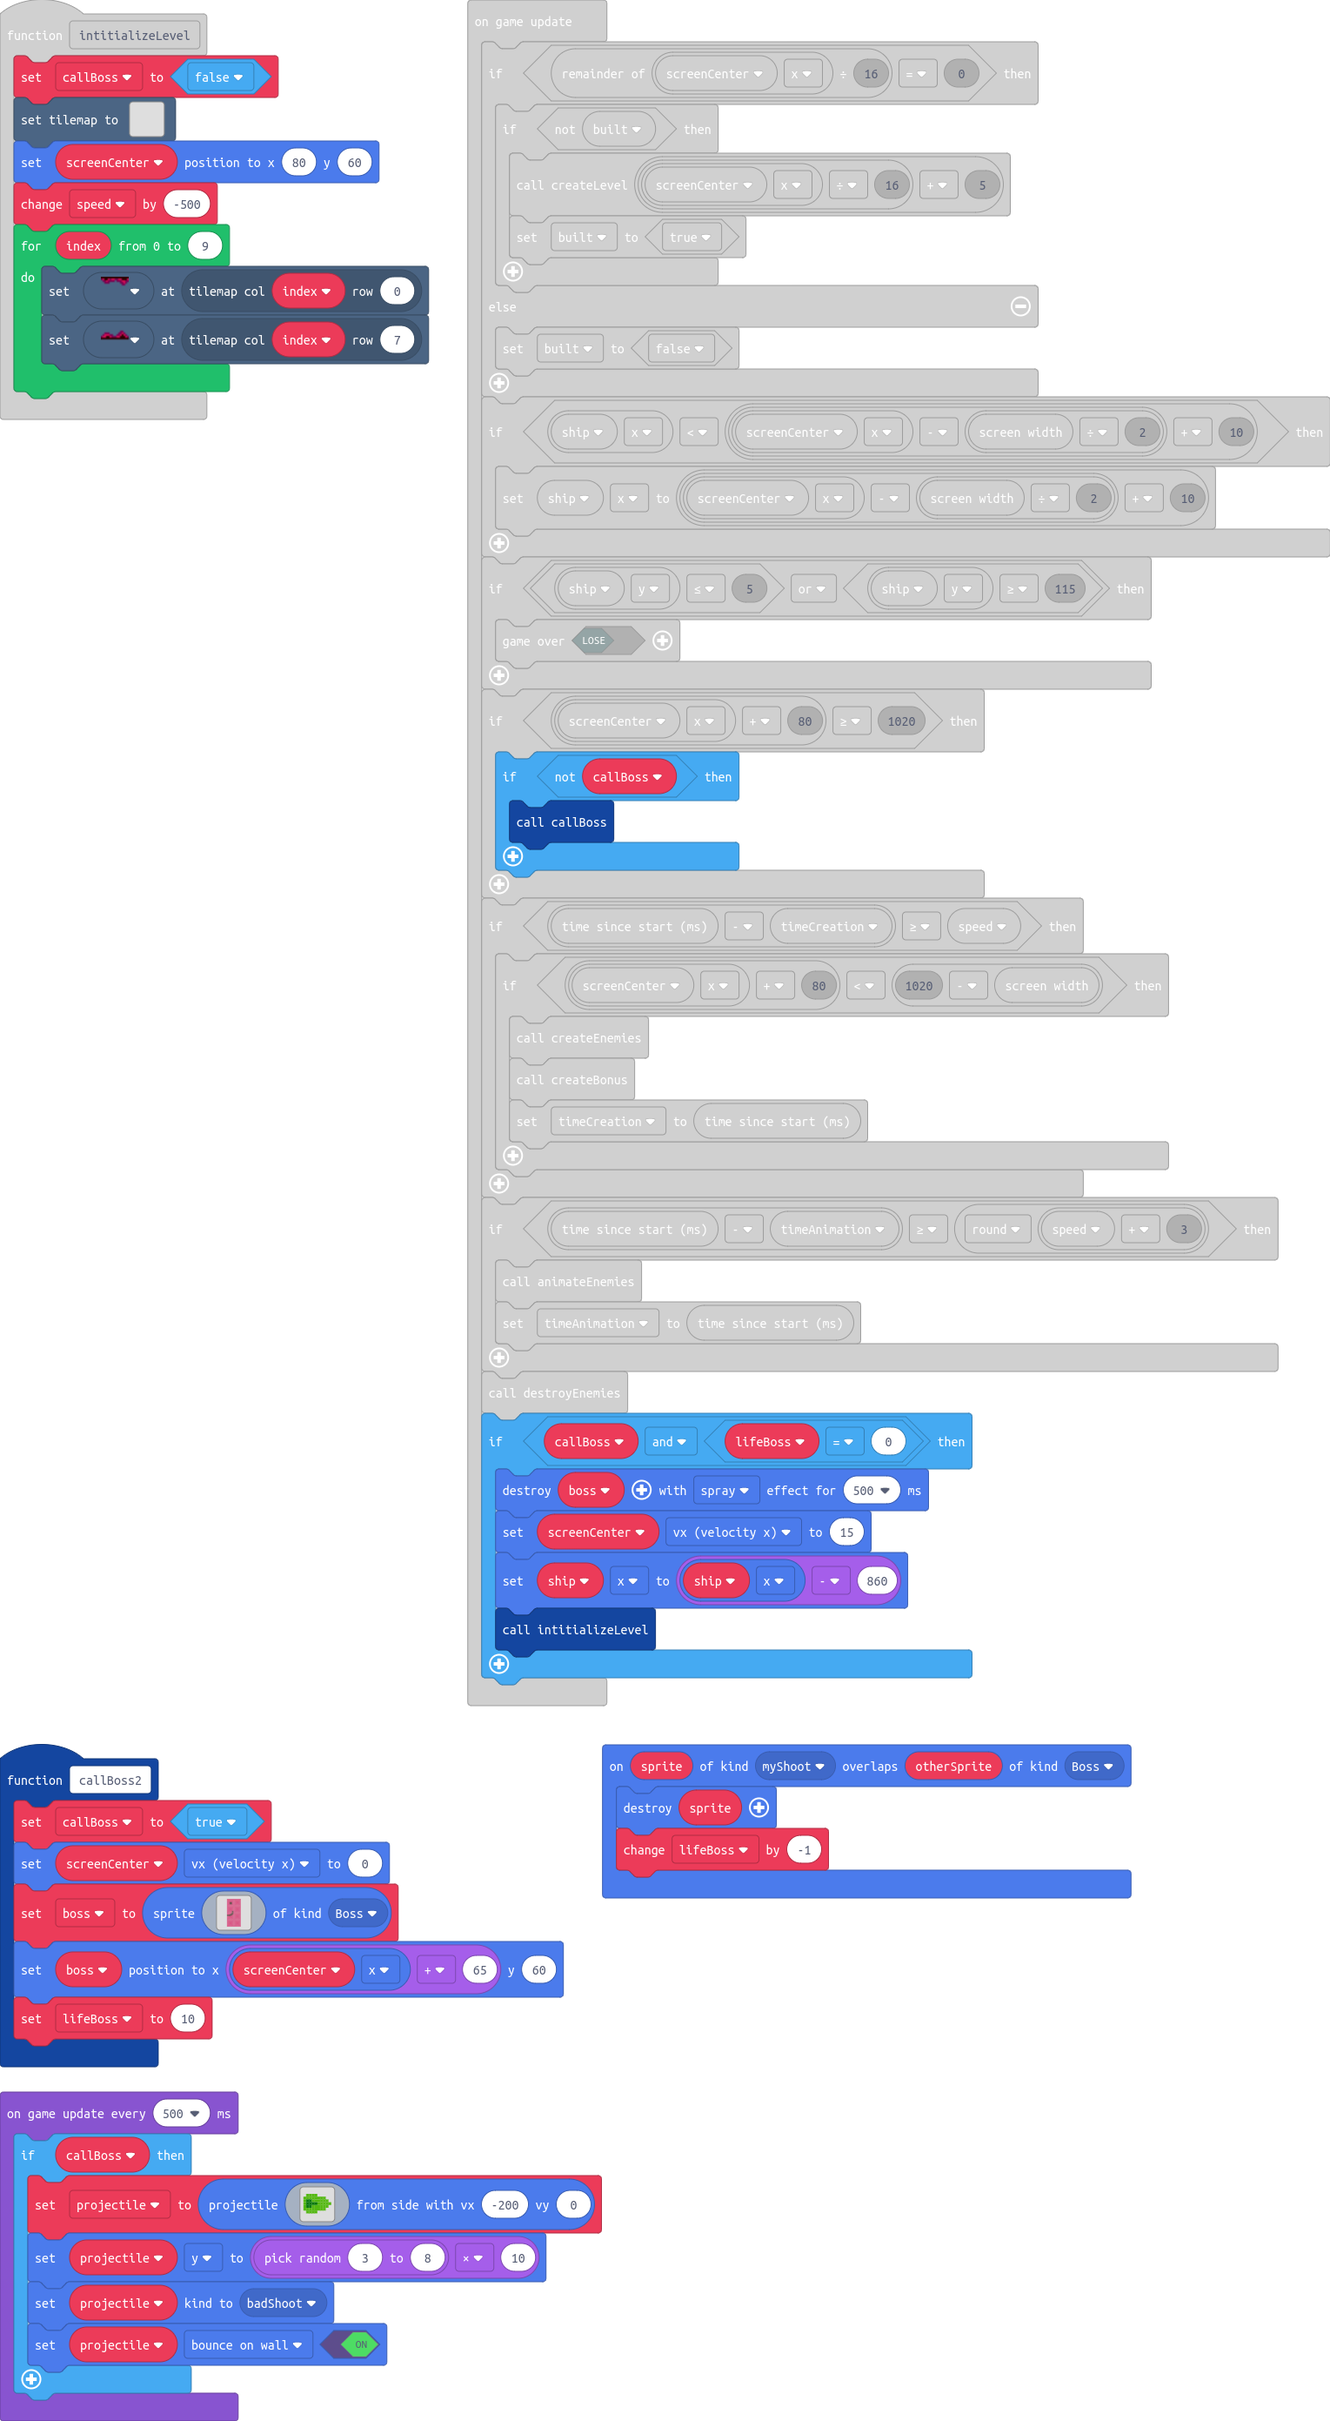
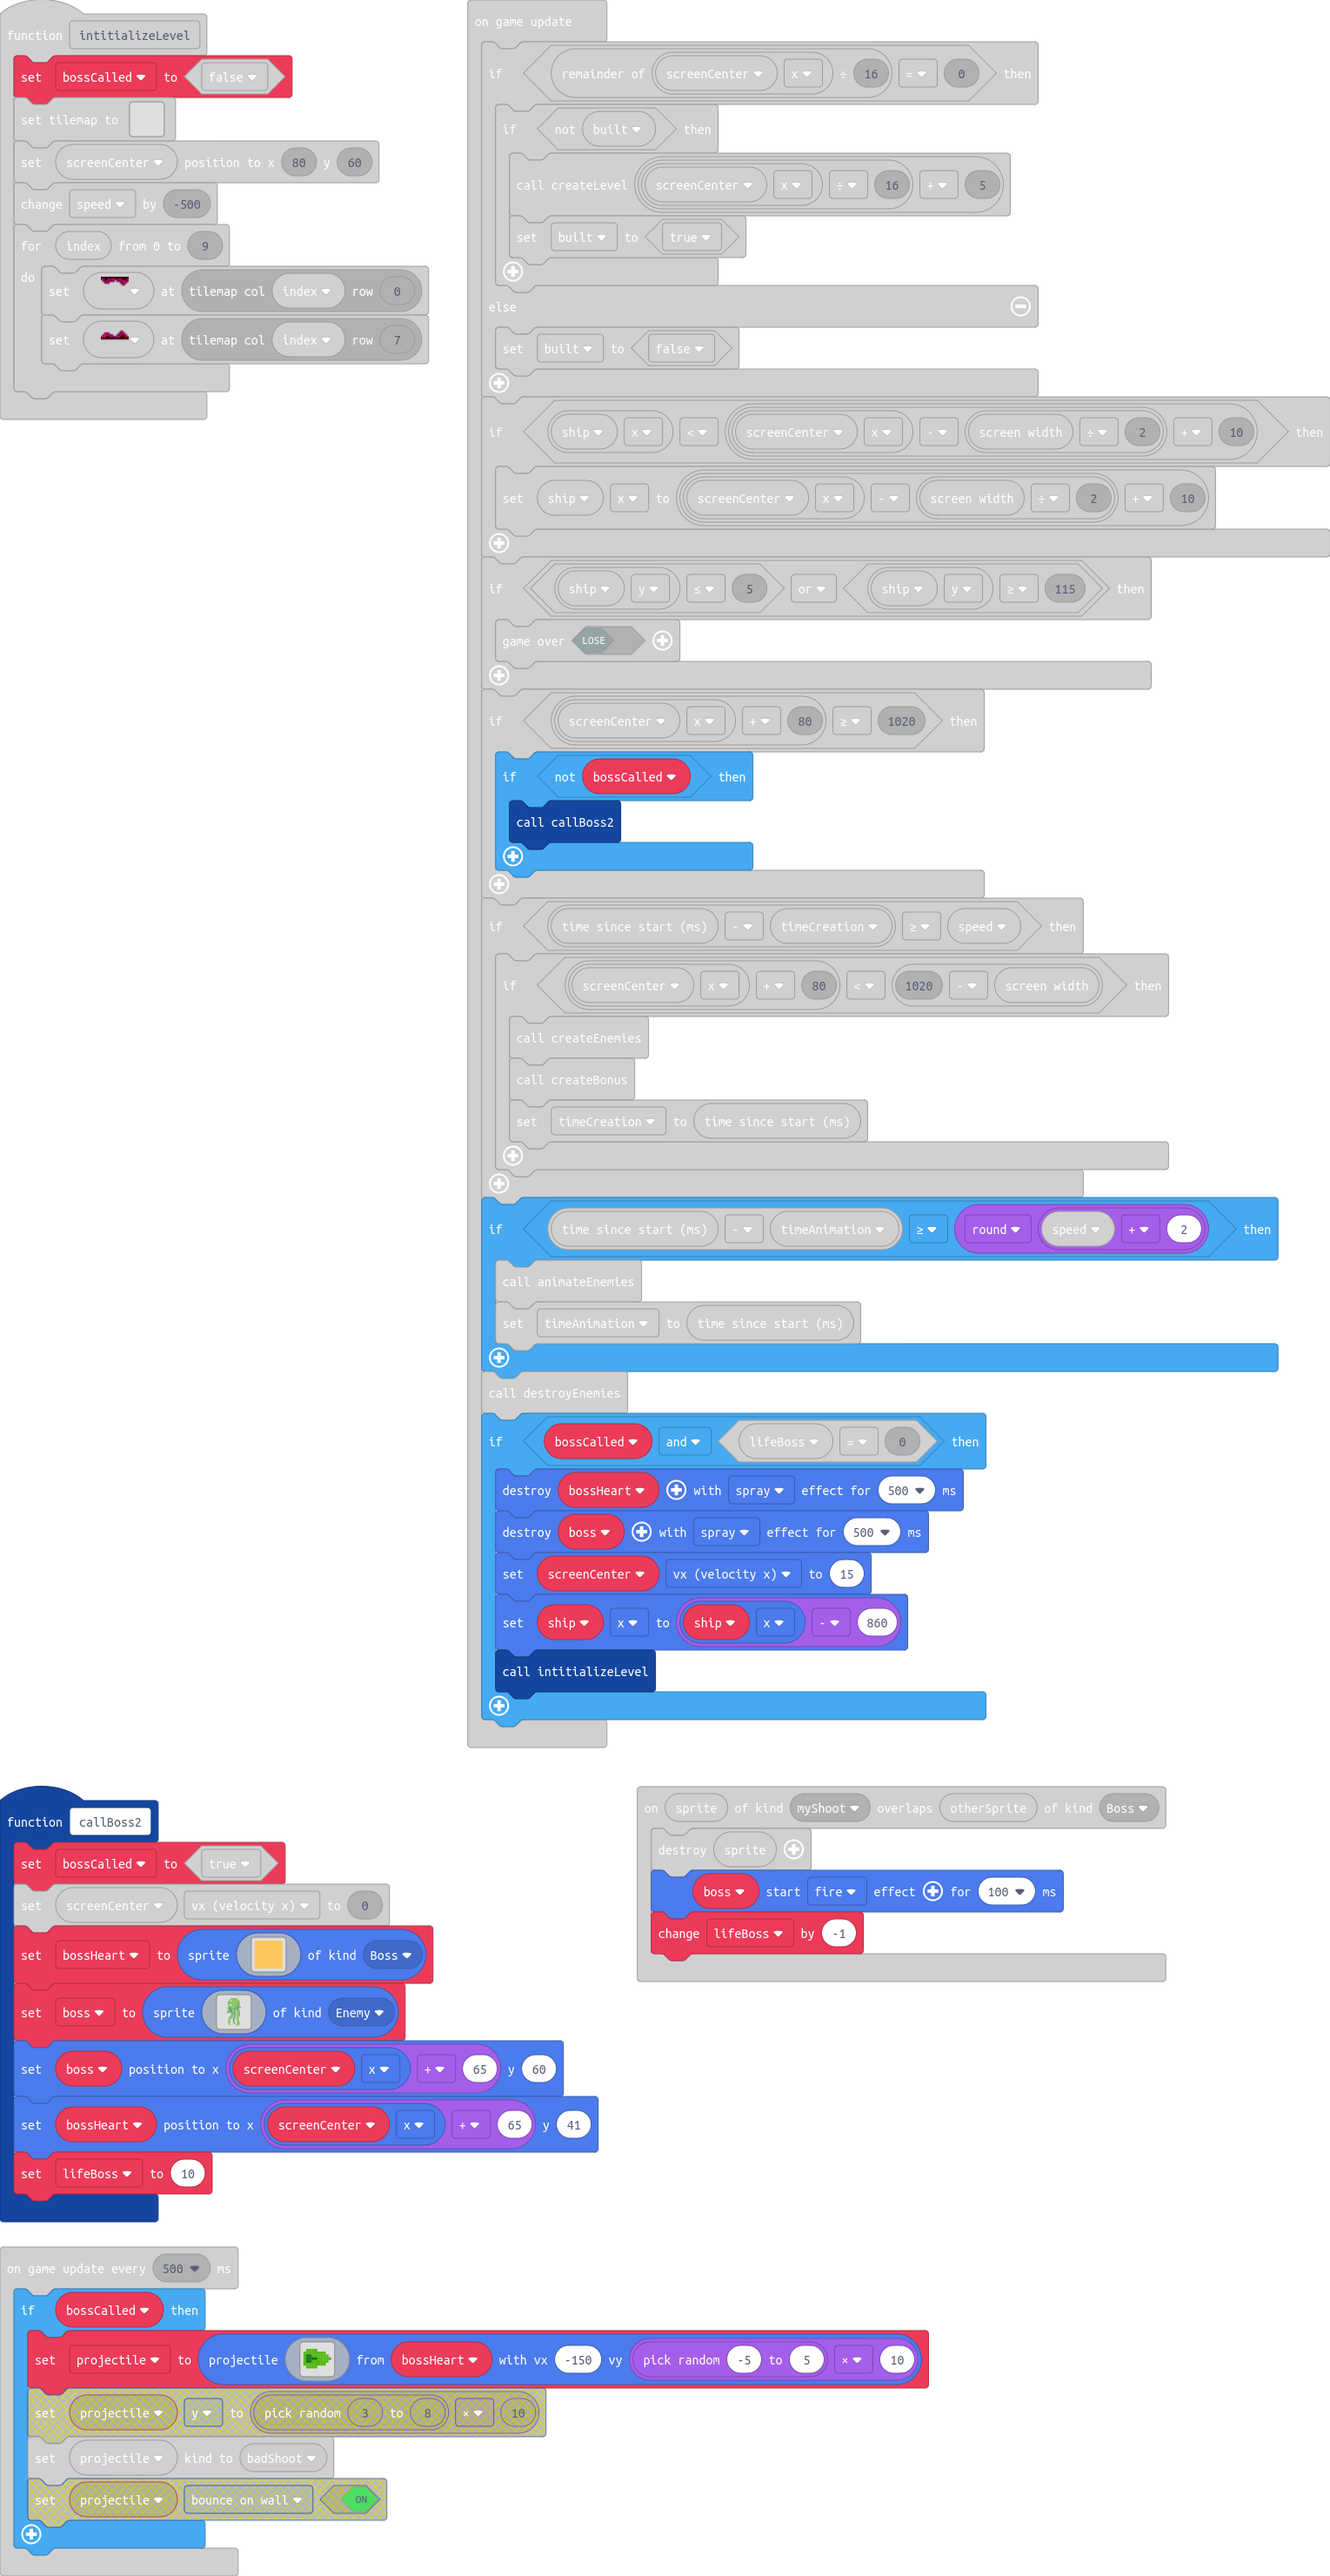
Update main.blocks, main.ts

diff --git a/main.ts b/main.ts
@@ -120,74 +120,6 @@ sprites.onOverlap(SpriteKind.Player, SpriteKind.ShootQuick, function (sprite, ot
     pause(5000)
     coolDown = 500
 })
-function callBoss () {
-    callBoss2 = true
-    screenCenter.vx = 0
-    boss = sprites.create(img`
-3 3 3 3 3 3 3 3 3 3 3 3 3 3 3 3 3 3 3 3 3 3 3 3 3 3 3 3 3 3 
-3 3 3 3 3 3 3 3 3 3 3 3 3 3 3 3 3 3 3 3 3 3 3 3 3 3 3 3 3 3 
-3 3 3 3 3 3 3 3 3 3 3 3 3 3 3 3 3 3 3 3 3 3 3 3 3 3 3 3 3 3 
-3 3 3 3 3 3 3 3 3 3 3 3 3 3 3 3 3 3 3 3 3 3 3 3 3 3 3 3 3 3 
-3 3 3 3 3 3 3 3 3 3 3 3 3 3 3 3 3 3 3 3 3 3 3 3 3 3 3 3 3 3 
-3 3 3 3 3 3 3 3 3 3 3 3 3 3 3 3 3 3 3 3 3 3 3 3 3 3 3 3 3 3 
-3 3 3 3 3 3 3 3 3 3 3 3 3 3 3 3 3 3 3 3 3 3 3 3 3 3 3 3 3 3 
-3 3 3 3 3 3 1 1 1 1 1 3 3 3 3 3 3 3 3 3 3 3 3 3 3 3 3 3 3 3 
-3 3 3 3 3 3 1 1 1 1 1 3 3 3 3 3 3 3 3 3 3 3 3 3 3 3 3 3 3 3 
-3 3 3 3 3 3 1 1 1 1 1 3 3 3 3 3 3 3 3 3 3 3 3 3 3 3 3 3 3 3 
-3 3 3 3 3 3 1 1 1 1 1 3 3 3 3 3 3 3 3 3 3 3 3 3 3 3 3 3 3 3 
-3 3 3 3 3 3 1 1 1 1 1 3 3 3 3 3 3 3 3 3 3 3 3 3 3 3 3 3 3 3 
-3 3 3 3 3 3 3 3 3 3 3 3 3 3 3 3 3 3 3 3 3 3 3 3 3 3 3 3 3 3 
-3 3 3 3 3 3 3 3 3 3 3 3 3 3 3 3 3 3 3 3 3 3 3 3 3 3 3 3 3 3 
-3 3 3 3 3 3 3 3 3 3 3 3 3 3 3 3 3 3 3 3 3 3 3 3 3 3 3 3 3 3 
-3 3 3 3 3 3 3 3 3 3 3 3 3 3 3 3 3 3 3 3 3 3 3 3 3 3 3 3 3 3 
-3 3 3 3 3 3 3 3 3 3 3 3 3 3 3 3 3 3 3 3 3 3 3 3 3 3 3 3 3 3 
-3 3 3 3 3 3 3 3 3 3 3 3 3 3 3 3 3 3 3 3 3 3 3 3 3 3 3 3 3 3 
-3 3 3 3 3 3 3 3 3 3 3 3 3 3 3 3 3 3 3 3 3 3 3 3 3 3 3 3 3 3 
-3 3 3 3 3 3 3 3 3 3 3 3 3 3 3 3 3 3 3 3 3 3 3 3 3 3 3 3 3 3 
-3 3 3 3 3 3 3 3 3 3 3 3 3 3 3 3 3 3 3 3 3 3 3 3 3 3 3 3 3 3 
-3 3 3 3 3 3 3 3 3 3 3 3 3 3 3 3 3 3 3 3 3 3 3 3 3 3 3 3 3 3 
-3 3 3 3 3 3 3 3 3 3 3 3 3 3 3 3 3 3 3 3 3 3 3 3 3 3 3 3 3 3 
-3 3 3 3 3 3 3 3 3 3 3 3 3 3 3 3 3 3 3 3 3 3 3 3 3 3 3 3 3 3 
-3 3 3 3 3 3 3 3 3 3 3 3 3 3 3 3 3 3 3 3 3 3 3 3 3 3 3 3 3 3 
-3 3 3 3 3 3 3 3 3 3 3 3 3 3 3 3 3 3 3 3 3 3 3 3 3 3 3 3 3 3 
-3 3 3 3 3 3 3 3 3 3 3 1 1 1 3 3 3 3 3 3 3 3 3 3 3 3 3 3 3 3 
-3 3 3 3 3 3 3 3 3 3 3 1 1 1 3 3 3 3 3 3 3 3 3 3 3 3 3 3 3 3 
-3 3 3 3 3 3 3 3 3 3 3 1 1 1 3 3 3 3 3 3 3 3 3 3 3 3 3 3 3 3 
-3 3 3 3 3 3 3 3 3 3 3 1 1 1 3 3 3 3 3 3 3 3 3 3 3 3 3 3 3 3 
-3 3 3 3 3 3 3 3 3 3 1 1 1 1 3 3 3 3 3 3 3 3 3 3 3 3 3 3 3 3 
-3 3 3 3 3 3 3 3 3 1 1 1 1 1 3 3 3 3 3 3 3 3 3 3 3 3 3 3 3 3 
-3 3 3 3 3 3 3 3 3 1 1 1 1 1 3 3 3 3 3 3 3 3 3 3 3 3 3 3 3 3 
-3 3 3 3 3 3 1 1 1 1 1 1 1 3 3 3 3 3 3 3 3 3 3 3 3 3 3 3 3 3 
-1 1 1 1 1 1 1 1 1 1 1 1 3 3 3 3 3 3 3 3 3 3 3 3 3 3 3 3 3 3 
-1 1 1 1 1 1 1 1 1 1 1 3 3 3 3 3 3 3 3 3 3 3 3 3 3 3 3 3 3 3 
-1 1 1 1 1 1 1 1 3 3 3 3 3 3 3 3 3 3 3 3 3 3 3 3 3 3 3 3 3 3 
-3 3 3 3 3 3 3 3 3 3 3 3 3 3 3 3 3 3 3 3 3 3 3 3 3 3 3 3 3 3 
-3 3 3 3 3 3 3 3 3 3 3 3 3 3 3 3 3 3 3 3 3 3 3 3 3 3 3 3 3 3 
-3 3 3 3 3 3 3 3 3 3 3 3 3 3 3 3 3 3 3 3 3 3 3 3 3 3 3 3 3 3 
-3 3 3 3 3 3 3 3 3 3 3 3 3 3 3 3 3 3 3 3 3 3 3 3 3 3 3 3 3 3 
-3 3 3 3 3 3 3 3 3 3 3 3 3 3 3 3 3 3 3 3 3 3 3 3 3 3 3 3 3 3 
-3 3 3 3 3 3 3 3 3 3 3 3 3 3 3 3 3 3 3 3 3 3 3 3 3 3 3 3 3 3 
-3 3 3 3 3 3 3 3 3 3 3 3 3 3 3 3 3 3 3 3 3 3 3 3 3 3 3 3 3 3 
-3 3 3 3 3 3 3 3 3 3 3 3 3 3 3 3 3 3 3 3 3 3 3 3 3 3 3 3 3 3 
-3 3 3 3 3 3 3 3 3 3 3 3 3 3 3 3 3 3 3 3 3 3 3 3 3 3 3 3 3 3 
-3 3 3 3 3 3 3 3 3 3 3 3 3 3 3 3 3 3 3 3 3 3 3 3 3 3 3 3 3 3 
-3 3 3 3 3 3 3 3 3 3 3 3 3 3 3 3 3 3 3 3 3 3 3 3 3 3 3 3 3 3 
-3 3 3 3 3 3 3 3 3 3 3 3 3 3 3 3 3 3 3 3 3 3 3 3 3 3 3 3 3 3 
-3 3 3 3 3 3 3 3 3 3 3 3 3 3 3 3 3 3 3 3 3 3 3 3 3 3 3 3 3 3 
-3 3 3 3 3 3 3 3 3 3 3 3 3 3 3 3 3 3 3 3 3 3 3 3 3 3 3 3 3 3 
-3 3 3 3 3 3 3 3 3 3 3 3 3 3 3 3 3 3 3 3 3 3 3 3 3 3 3 3 3 3 
-3 3 3 3 3 3 3 3 3 3 3 3 3 3 3 3 3 3 3 3 3 3 3 3 3 3 3 3 3 3 
-3 3 3 3 3 3 3 3 3 3 3 3 3 3 3 3 3 3 3 3 3 3 3 3 3 3 3 3 3 3 
-3 3 3 3 3 3 3 3 3 3 3 3 3 3 3 3 3 3 3 3 3 3 3 3 3 3 3 3 3 3 
-3 3 3 3 3 3 3 3 3 3 3 3 3 3 3 3 3 3 3 3 3 3 3 3 3 3 3 3 3 3 
-3 3 3 3 3 3 3 3 3 3 3 3 3 3 3 3 3 3 3 3 3 3 3 3 3 3 3 3 3 3 
-3 3 3 3 3 3 3 3 3 3 3 3 3 3 3 3 3 3 3 3 3 3 3 3 3 3 3 3 3 3 
-3 3 3 3 3 3 3 3 3 3 3 3 3 3 3 3 3 3 3 3 3 3 3 3 3 3 3 3 3 3 
-3 3 3 3 3 3 3 3 3 3 3 3 3 3 3 3 3 3 3 3 3 3 3 3 3 3 3 3 3 3 
-`, SpriteKind.Boss)
-    boss.setPosition(screenCenter.x + 65, 60)
-    lifeBoss = 10
-}
 function createLevel (col: number) {
     tiles.setTileAt(tiles.getTileLocation(col, 0), myTiles.tile4)
     tiles.setTileAt(tiles.getTileLocation(col, 7), myTiles.tile5)
@@ -279,6 +211,93 @@ function animateEnemies () {
         }
     }
 }
+function callBoss () {
+    bossCalled = true
+    screenCenter.vx = 0
+    bossHeart = sprites.create(img`
+5 5 5 5 5 5 5 5 5 5 5 5 5 5 5 5 
+5 5 5 5 5 5 5 5 5 5 5 5 5 5 5 5 
+5 5 5 5 5 5 5 5 5 5 5 5 5 5 5 5 
+5 5 5 5 5 5 5 5 5 5 5 5 5 5 5 5 
+5 5 5 5 5 5 5 5 5 5 5 5 5 5 5 5 
+5 5 5 5 5 5 5 5 5 5 5 5 5 5 5 5 
+5 5 5 5 5 5 5 5 5 5 5 5 5 5 5 5 
+5 5 5 5 5 5 5 5 5 5 5 5 5 5 5 5 
+5 5 5 5 5 5 5 5 5 5 5 5 5 5 5 5 
+5 5 5 5 5 5 5 5 5 5 5 5 5 5 5 5 
+5 5 5 5 5 5 5 5 5 5 5 5 5 5 5 5 
+5 5 5 5 5 5 5 5 5 5 5 5 5 5 5 5 
+5 5 5 5 5 5 5 5 5 5 5 5 5 5 5 5 
+5 5 5 5 5 5 5 5 5 5 5 5 5 5 5 5 
+5 5 5 5 5 5 5 5 5 5 5 5 5 5 5 5 
+5 5 5 5 5 5 5 5 5 5 5 5 5 5 5 5 
+`, SpriteKind.Boss)
+    boss = sprites.create(img`
+. . . . . . . . . . 6 6 6 6 6 6 6 6 6 6 6 . . . . . . . . . 
+. . . . . . . . 6 6 7 7 7 7 7 7 7 7 7 7 7 6 . . . . . . . . 
+. . . . . . . 6 7 7 7 7 7 7 7 7 7 7 7 7 7 7 6 . . . . . . . 
+. . . . . . 6 7 7 7 7 7 7 7 7 7 7 7 7 7 7 7 7 6 . . . . . . 
+. . . . . 6 7 5 5 5 7 7 7 7 7 7 7 7 7 7 7 7 7 7 6 . . . . . 
+. . . . 6 7 5 5 8 5 5 7 7 7 7 7 7 7 7 7 7 7 7 7 7 6 . . . . 
+. . . . 6 7 5 8 3 5 5 7 7 7 7 7 7 7 7 7 7 7 7 7 7 6 . . . . 
+. . . 6 7 7 5 3 3 5 5 7 7 7 7 7 7 7 7 7 7 7 7 7 7 7 6 . . . 
+. . . 6 7 7 7 5 5 5 7 7 7 7 7 7 7 7 7 7 7 7 7 7 7 7 6 . . . 
+. . 6 7 7 7 7 7 7 7 7 7 7 7 7 7 7 7 7 7 7 7 7 7 7 7 6 . . . 
+. . 6 7 7 7 7 7 7 7 7 7 7 7 7 7 7 7 7 7 7 7 7 7 7 6 6 . . . 
+. . 6 7 7 7 7 6 6 6 6 6 6 7 7 7 7 7 7 7 7 7 7 7 6 7 6 . . . 
+. . 6 6 6 6 6 6 8 8 8 7 6 7 7 7 7 7 7 7 7 7 7 6 7 6 6 . . . 
+. . . 6 6 8 8 7 8 8 8 7 7 7 7 7 7 7 7 7 7 7 6 7 6 7 6 . . . 
+. . 6 7 7 8 8 7 8 8 7 7 7 7 7 7 7 7 7 7 7 6 7 6 7 6 6 . . . 
+. . 6 6 7 8 8 7 8 8 7 7 7 7 7 7 7 7 7 7 6 7 6 7 6 6 . . . . 
+. . . 6 7 7 8 7 7 8 7 7 7 7 7 7 7 7 7 7 7 6 7 6 7 6 6 6 . . 
+. . . . 6 6 7 7 7 7 7 7 7 7 7 7 7 7 7 7 6 7 6 7 6 7 7 6 . . 
+. . . . 6 7 7 7 7 7 7 7 7 7 7 7 7 7 7 6 7 6 7 7 7 7 7 7 6 . 
+. . . 6 7 7 7 6 7 7 7 7 7 7 7 7 7 7 6 7 6 7 6 6 6 6 6 7 7 6 
+. . 6 7 7 6 6 6 7 7 7 7 7 7 7 7 7 6 7 6 7 6 6 6 6 . 6 6 6 6 
+. 6 6 6 6 6 6 6 7 7 7 7 7 7 7 7 6 7 6 7 6 6 6 6 6 . . . . . 
+. . . . 6 6 6 6 7 7 7 7 7 7 7 6 7 6 7 6 7 6 6 6 6 . . . . . 
+. . . 6 6 6 6 7 7 7 6 6 6 6 6 6 6 6 . . 6 6 6 7 6 6 . . . . 
+. . . 6 6 6 7 7 7 6 6 . . 6 6 6 6 6 . . . 6 7 6 7 6 . . . . 
+. . . 6 6 6 7 7 7 6 6 . . . 6 6 7 6 . . . 6 6 7 6 6 . . . . 
+. . . 6 7 7 7 7 6 6 6 6 . . 6 7 6 6 6 . . 6 7 6 7 7 6 . . . 
+. . 6 6 7 7 6 6 6 6 6 6 . . 6 6 7 6 6 . . . 6 7 7 7 6 . . . 
+. 6 7 7 7 7 6 6 6 6 6 6 . . 6 7 6 7 6 . . . 6 7 7 7 6 . . . 
+6 7 7 7 6 6 6 6 6 6 6 7 6 . 6 6 7 6 6 . . . 6 7 7 7 7 6 . . 
+7 7 7 7 6 . . 6 6 6 7 6 6 . 6 6 6 6 6 . . . 6 7 7 7 7 6 . . 
+6 6 6 6 6 . . . 6 7 6 7 6 . . 6 6 6 6 . . . 6 7 7 7 7 6 . . 
+. . . . . . . . . 6 7 6 7 6 . 6 6 6 6 . . . 6 7 7 7 7 6 . . 
+. . . . . . . . . 6 7 7 7 6 . 6 6 6 6 . . . 6 7 7 7 7 6 . . 
+. . . . . . . . . 6 7 7 7 6 . . 6 6 6 . . . 6 7 7 7 7 6 . . 
+. . . . . . . . . 6 7 7 7 6 . . 6 6 6 . . . 7 7 7 7 7 6 . . 
+. . . . . . . . . 6 7 7 7 6 . . 6 6 6 . . . 7 7 7 7 7 6 . . 
+. . . . . . . . 6 7 7 7 7 6 . . 6 6 6 . . . 7 7 7 7 7 6 . . 
+. . . . . . . . 6 7 7 7 7 6 . . 6 6 6 . . 7 7 7 7 7 7 . . . 
+. . . . . . . 6 7 7 7 7 6 . . . 6 6 . . . 7 7 7 7 7 7 . . . 
+. . . . . . 6 7 7 7 7 7 6 . . 6 6 6 . . . 7 7 7 7 7 . . . . 
+. . . . . 6 7 7 7 7 7 7 . . 6 6 6 6 . . . 7 7 7 7 7 . . . . 
+. . . . 6 7 7 7 7 7 7 . . . 6 6 6 6 . . 7 7 7 7 7 7 . . . . 
+. . . . 7 7 7 7 7 7 7 . . 6 6 6 6 . . . 7 7 7 7 7 . . . . . 
+. . . 7 7 7 7 7 7 7 . . . 6 6 6 6 . . . 7 7 7 7 7 . . . . . 
+. . . 7 7 7 7 7 7 . . . . 6 6 6 . . . . . 7 7 7 7 . . . . . 
+. . . 7 7 7 7 . . . . . . 6 6 6 . . . . . 7 7 7 7 . . . . . 
+. . 7 7 7 7 7 . . . . . . 6 6 6 . . . . . 7 7 7 7 7 . . . . 
+. . 7 7 7 7 7 . . . . . . 6 6 6 . . . . . 7 7 7 7 7 . . . . 
+. . 7 7 7 7 7 . . . . . . 6 6 6 . . . . . . 7 7 7 7 . . . . 
+. . 7 7 7 7 7 . . . . . . 6 6 6 . . . . . . 7 7 7 7 7 . . . 
+. . 7 7 7 7 7 . . . . . . . 6 6 . . . . . . 7 7 7 7 7 . . . 
+. . . 7 7 7 7 . . . . . . . 6 6 . . . . . . 7 7 7 7 7 7 . . 
+. . . 7 7 7 7 . . . . . . . . 6 6 . . . . . 7 7 7 7 7 7 . . 
+. . . . 7 7 7 . . . . . . . . 6 6 6 . . . . 7 7 7 7 7 7 . . 
+. . . . 7 7 7 . . . . . . . . 6 6 . . . . 7 7 7 7 7 7 7 . . 
+. . . . 7 7 7 . . . . . . . . . . . . . 7 7 7 7 7 7 7 . . . 
+. . . . 7 7 7 . . . . . . . . . . . . . 7 7 7 7 7 7 7 . . . 
+. . . . . . . . . . . . . . . . . . . . 7 7 7 7 7 7 . . . . 
+. . . . . . . . . . . . . . . . . . . . . . . . . . . . . . 
+`, SpriteKind.Enemy)
+    boss.setPosition(screenCenter.x + 65, 60)
+    bossHeart.setPosition(screenCenter.x + 65, 41)
+    lifeBoss = 10
+}
 function createBonus () {
     if (Math.percentChance(5)) {
         lifeUp = sprites.create(img`
@@ -344,7 +363,7 @@ sprites.onOverlap(SpriteKind.myShoot, SpriteKind.Asteroid, function (sprite, oth
     info.changeScoreBy(2)
 })
 function intitializeLevel () {
-    callBoss2 = false
+    bossCalled = false
     tiles.setTilemap(tiles.createTilemap(
             hex`400008000000000000000000000000000000000000000000000000000000000000000000000000000000000000000000000000000000000000000000000000000000000000000000000000000000000000000000000000000000000000000000000000000000000000000000000000000000000000000000000000000000000000000000000000000000000000000000000000000000000000000000000000000000000000000000000000000000000000000000000000000000000000000000000000000000000000000000000000000000000000000000000000000000000000000000000000000000000000000000000000000000000000000000000000000000000000000000000000000000000000000000000000000000000000000000000000000000000000000000000000000000000000000000000000000000000000000000000000000000000000000000000000000000000000000000000000000000000000000000000000000000000000000000000000000000000000000000000000000000000000000000000000000000000000000000000000000000000000000000000000000000000000000000000000000000000000000000000000000000000000000000000000000000000000000000000000000000000000000000000000000000000000000000000000000000000000000000000000000000000000000000`,
             img`
@@ -432,6 +451,7 @@ sprites.onOverlap(SpriteKind.Player, SpriteKind.Asteroid, function (sprite, othe
 })
 sprites.onOverlap(SpriteKind.myShoot, SpriteKind.Boss, function (sprite, otherSprite) {
     sprite.destroy()
+    boss.startEffect(effects.fire, 100)
     lifeBoss += -1
 })
 sprites.onOverlap(SpriteKind.Player, SpriteKind.badShip, function (sprite, otherSprite) {
@@ -472,6 +492,10 @@ let shoot: Sprite = null
 let bomb: Sprite = null
 let shootQuick: Sprite = null
 let lifeUp: Sprite = null
+let lifeBoss = 0
+let boss: Sprite = null
+let bossHeart: Sprite = null
+let bossCalled = false
 let hypotenuse = 0
 let yVel = 0
 let xVel = 0
@@ -479,9 +503,6 @@ let projectile: Sprite = null
 let row = 0
 let hTourelle = 0
 let tourelle: Sprite = null
-let lifeBoss = 0
-let boss: Sprite = null
-let callBoss2 = false
 let screenCenter: Sprite = null
 let ship: Sprite = null
 let coolDown = 0
@@ -674,7 +695,7 @@ game.onUpdate(function () {
         game.over(false)
     }
     if (screenCenter.x + 80 >= 1020) {
-        if (!(callBoss2)) {
+        if (!(bossCalled)) {
             callBoss()
         }
     }
@@ -685,12 +706,13 @@ game.onUpdate(function () {
             timeCreation = game.runtime()
         }
     }
-    if (game.runtime() - timeAnimation >= Math.round(speed + 3)) {
+    if (game.runtime() - timeAnimation >= Math.round(speed + 2)) {
         animateEnemies()
         timeAnimation = game.runtime()
     }
     destroyEnemies()
-    if (callBoss2 && lifeBoss == 0) {
+    if (bossCalled && lifeBoss == 0) {
+        bossHeart.destroy()
         boss.destroy(effects.spray, 500)
         screenCenter.vx = 15
         ship.x = ship.x - 860
@@ -698,8 +720,8 @@ game.onUpdate(function () {
     }
 })
 game.onUpdateInterval(500, function () {
-    if (callBoss2) {
-        projectile = sprites.createProjectileFromSide(img`
+    if (bossCalled) {
+        projectile = sprites.createProjectileFromSprite(img`
 . 7 7 7 7 . . . . . 
 7 7 7 7 7 7 7 7 . . 
 7 6 6 7 7 7 7 7 7 . 
@@ -707,9 +729,7 @@ game.onUpdateInterval(500, function () {
 7 6 6 7 7 7 7 7 7 . 
 7 7 7 7 7 7 7 7 . . 
 . 7 7 7 7 . . . . . 
-`, -200, 0)
-        projectile.y = Math.randomRange(3, 8) * 10
+`, bossHeart, -150, Math.randomRange(-5, 5) * 10)
         projectile.setKind(SpriteKind.badShoot)
-        projectile.setFlag(SpriteFlag.BounceOnWall, true)
     }
 })
